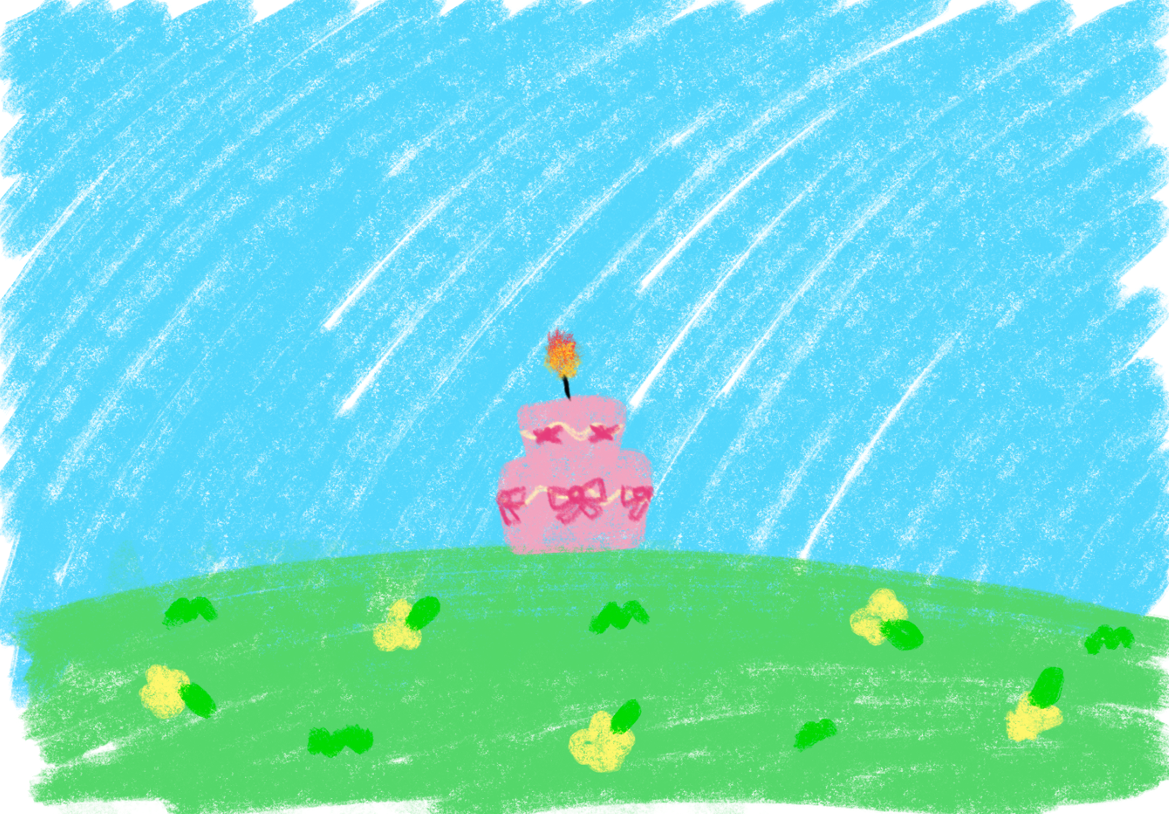
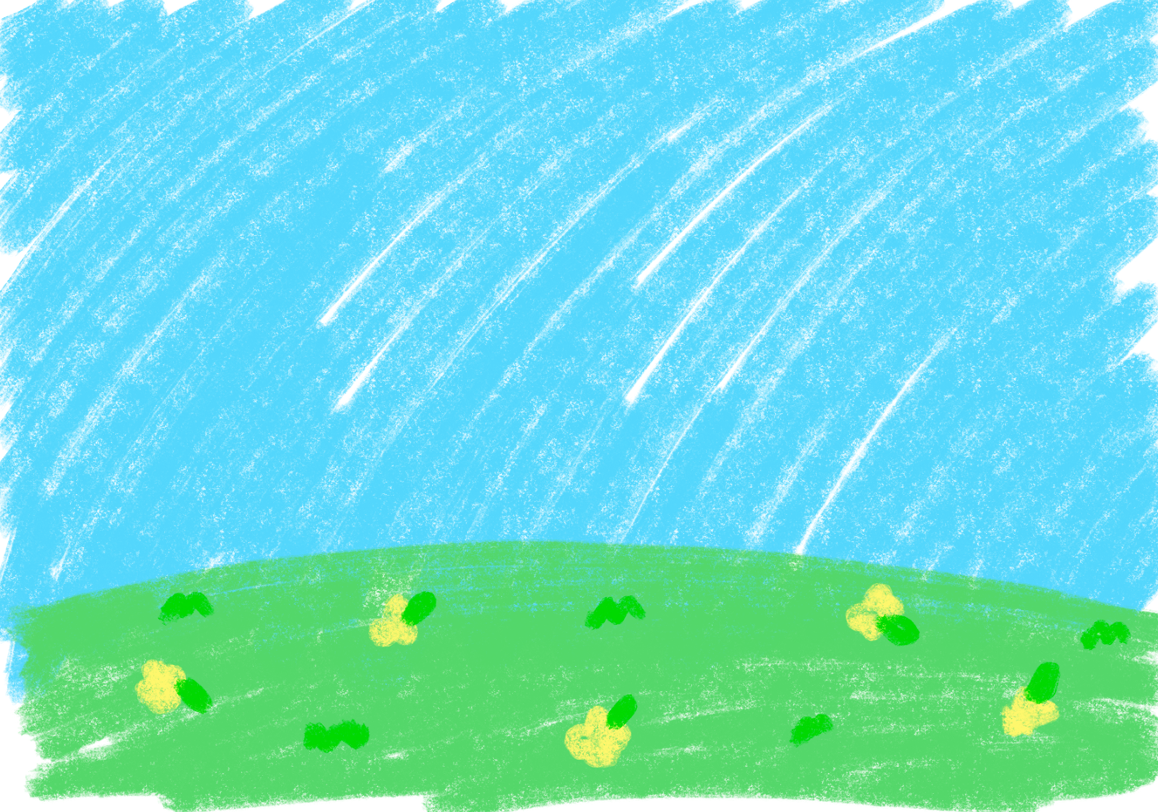
update function - 'down()'

diff --git a/im2320/assign_3/control.js b/im2320/assign_3/control.js
@@ -1,8 +1,11 @@
 /* SET INITIAL POSITION */
 // bring balloon images
-let balloons = document.getElementsByClassName("balloon");
+let movable = document.getElementsByClassName("movable");
 
 let isDown = false;
+let isBalloon = false;
+let isCloud = false;
+let isCake = false;
 let x = 0;
 let y = 0;
 let obj;
@@ -10,27 +13,44 @@ let obj;
 /* SET INITIAL POSITION */
 
 // set each balloon to initial position
-for (let i=0; i<balloons.length; i++) {
+for (let i=0; i<movable.length; i++) {
     let amount = 4+i*7;
-    balloons[i].style.left = `${amount}%`;
-    balloons[i].style.zIndex = i;
+    if (i < 13)
+        movable[i].style.left = `${amount}%`;
+    movable[i].style.zIndex = i;
 }
 
 window.onmousedown = function(event) {
-    if (event.target.classList.contains('balloon')) {
-      isDown = true;
-      x = event.offsetX;
-      y = event.offsetY;
-      obj = event.target;
-      setZ();
-      return false;
+    if (event.target.classList.contains("balloon")) {
+        isBalloon = true;
+        isCloud = false;
+        isCake = false;
+        setXY(event);
+        setZ();
+        return false;
+    }
+    else if (event.target.classList.contains("cloud")) {
+        isBalloon = false;
+        isCloud = true;
+        isCake = false;
+        setXY(event);
+        setZ();
+        return false;
+
+    } else if (event.target.classList.contains("cake")) {
+        isBalloon = false;
+        isCloud = false;
+        isCake = true;
+        setXY(event);
+        setZ();
+        return false;
     }
 };
 
 window.onmousemove = function(event) {
     if (isDown) {
-        obj.style.left = event.clientX - x + 'px';
-        obj.style.top  = event.clientY - y + 'px';
+        obj.style.left = event.clientX - x + "px";
+        obj.style.top  = event.clientY - y + "px";
         obj.style.transition = null;
         return false;
     }
@@ -38,23 +58,51 @@ window.onmousemove = function(event) {
 
 window.onmouseup = function(event) {
     isDown = false;
-    goUp();
-  };
+    if (isBalloon)
+        goUp();
+    else if (isCloud)
+        up();
+    else if (isCake)
+        down();
+};
 
-
-function goUp() {
-    let distance = obj.style.top.slice(0,-2);
-    let time = distance*10;
-    obj.style.transition = "top "+time+"ms ease";
-    obj.style.top = "0px";
+function setXY(event) {
+    isDown = true;
+    x = event.offsetX;
+    y = event.offsetY;
+    obj = event.target;
 }
 
 function setZ() {
     let index = obj.style.zIndex;
-    Array.from(balloons).forEach(balloon => {
-        let otherIndex = balloon.style.zIndex;
+    Array.from(movable).forEach(object => {
+        let otherIndex = object.style.zIndex;
         if (otherIndex > index)
-        balloon.style.zIndex = otherIndex-1;
+        object.style.zIndex = otherIndex-1;
     });
-    obj.style.zIndex = balloons.length-1;
+    obj.style.zIndex = movable.length-1;
+}
+
+function goUp() {
+    let top = obj.style.top.slice(0,-2);
+    let time = top*10;
+    obj.style.transition = "top "+time+"ms ease";
+    obj.style.top = "0px";
+}
+
+function up() {
+    let top = obj.style.top.slice(0,-2);
+    obj.style.transition = "top 1s ease";
+    obj.style.top = top - 15 + "px";
+}
+
+function down() {
+    let top = obj.style.top.slice(0,-2);
+    let limit = Math.floor(window.innerHeight*0.35);
+    let distance = limit - top;
+    if (top < limit) {
+        let time = distance*5;
+        obj.style.transition = "top "+time+"ms ease-in";
+        obj.style.top = limit+"px";
+    }
 }

diff --git a/im2320/assign_3/index.html b/im2320/assign_3/index.html
@@ -3,25 +3,30 @@
 <head>
     <meta charset="UTF-8">
     <meta name="viewport" content="width=device-width, initial-scale=1.0">
-    <title>Happy Birthday!</title>
+    <title>Happy Birthday! by Yeosu Sim</title>
     <link rel="icon" type="image/x-icon" href="./img/favicon.ico">
     <link rel="stylesheet" href="style.css">
     <script src="control.js" defer></script>
 </head>
 <body>
     <img id="background" src="./img/skyGround.png" draggable="false">
-    <img class="balloon" id="heartH" src="./img/heartH.png">
-    <img class="balloon" id="starA" src="./img/starA.png">
-    <img class="balloon" id="squareP" src="./img/squareP.png">
-    <img class="balloon" id="circleP" src="./img/circleP.png">
-    <img class="balloon" id="heartY" src="./img/heartY.png">
-    <img class="balloon" id="circleB" src="./img/circleB.png">
-    <img class="balloon" id="squareI" src="./img/squareI.png">
-    <img class="balloon" id="starR" src="./img/starR.png">
-    <img class="balloon" id="heartT" src="./img/heartT.png">
-    <img class="balloon" id="squareH" src="./img/squareH.png">
-    <img class="balloon" id="circlrD" src="./img/circlrD.png">
-    <img class="balloon" id="heartA" src="./img/heartA.png">
-    <img class="balloon" id="starY" src="./img/starY.png">
+    <img class="balloon movable" id="heartH" src="./img/heartH.png">
+    <img class="balloon movable" id="starA" src="./img/starA.png">
+    <img class="balloon movable" id="squareP" src="./img/squareP.png">
+    <img class="balloon movable" id="circleP" src="./img/circleP.png">
+    <img class="balloon movable" id="heartY" src="./img/heartY.png">
+    <img class="balloon movable" id="circleB" src="./img/circleB.png">
+    <img class="balloon movable" id="squareI" src="./img/squareI.png">
+    <img class="balloon movable" id="starR" src="./img/starR.png">
+    <img class="balloon movable" id="heartT" src="./img/heartT.png">
+    <img class="balloon movable" id="squareH" src="./img/squareH.png">
+    <img class="balloon movable" id="circlrD" src="./img/circlrD.png">
+    <img class="balloon movable" id="heartA" src="./img/heartA.png">
+    <img class="balloon movable" id="starY" src="./img/starY.png">
+    <img class="cloud movable" id="cloud1" src="./img/cloud1.png">
+    <img class="cloud movable" id="cloud2" src="./img/cloud2.png">
+    <img class="cloud movable" id="cloud3" src="./img/cloud3.png">
+    <img class="cloud movable" id="cloud4" src="./img/cloud4.png">
+    <img class="cake movable" id="cake" src="./img/cake.png">
 </body>
 </html>

diff --git a/im2320/assign_3/style.css b/im2320/assign_3/style.css
@@ -6,6 +6,7 @@
 }
 
 img {
+    position:absolute;
     cursor: grab;
 }
 
@@ -13,9 +14,38 @@ img {
     position:absolute;
     width:100%;
     height:100%;
+    z-index:-1;
 }
 
 .balloon {
     position:absolute;
     width:7%;
 }
+
+/* set default size and position */
+#cloud1 {
+    width:30%;
+    left:-10%;
+    top:20%;
+}
+#cloud2 {
+    width:20%;
+    left:20%;
+    top:40%;
+}
+#cloud3 {
+    width:25%;
+    right:-10%;
+    top:10%;
+}
+#cloud4 {
+    width:35%;
+    right:5%;
+    top:25%;
+}
+#cake {
+    width:15%;
+    left:40%;
+    bottom:30%;
+}
+
